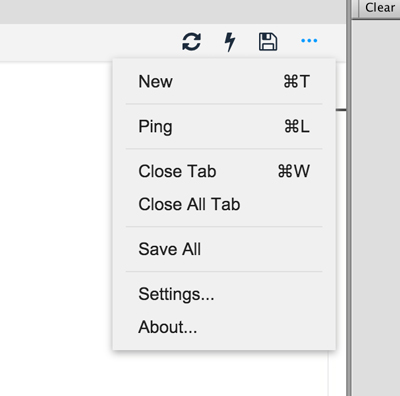
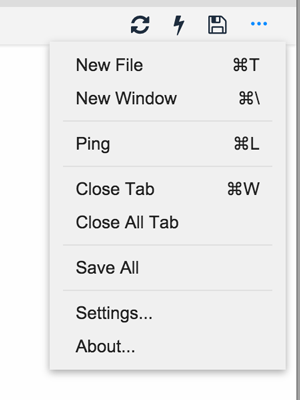
uce version 1.1.2

diff --git a/_pages/uCodeEditor/features.md b/_pages/uCodeEditor/features.md
@@ -14,6 +14,10 @@ Two ways can do this:
 * Via menu __Tools__ -> __uCodeEditor__ -> __uCodeEditor__
 * Open any script files will open uCodeEditor if it's not opened
 
+#### Multiple Windows
+
+Use `New Window` command or click the `New Window` menu item in more drop down menu in MainUI.
+
 ### Open File In uCodeEditor
 
 In addition to double click a script file in Project window, below action will open file in uCodeEditor:
@@ -49,7 +53,8 @@ As below image show, the buttons from left to right are:
 - __Thunder__: Open Command Palette. Shortcut is `F1`
 - __Save__: Save current opened document. Shortcut is `⌘K` on macOS and `Ctrl+K` on Windows
 - __More__: Click will open drop down menu, and for the menu items:
-  - __New__: Create new document. Shortcut is `⌘T` on macOS and `Ctrl+T` on Windows
+  - __New File__: Create new document. Shortcut is `⌘T` on macOS and `Ctrl+T` on Windows
+  - __New Window__: Create new window.
   - __Ping__: Ping current opened document in Unity Project window. Shortcut is `⌘L` on macOS and `Ctrl+L` on Windows
   - __Close Tab__: Close current opened document. Shortcut is `⌘W` on macOS and `Ctrl+W` on Windows
   - __Close All Tab__: Close all tabs in tablist

diff --git a/_pages/uCodeEditor/changelog.md b/_pages/uCodeEditor/changelog.md
@@ -6,6 +6,26 @@ sidebar:
 permalink: "/uce/changelog/"
 toc: true
 ---
+### 1.1.2
+
+NEW:
+- Add multiple windows supports. We can create new window using `New Window` command or click the `New Window` menu item in more drop down menu.
+- Add new light theme named `Github`.
+- Add `Open MSDN Documentation for Selection` and `Open Unity Documentation for Selection` commands to search selected text on MSN documentation and Unity script documentation.
+- Add syntax highlighting for SQL and Typescript language.
+- Add `Save File To..` command which can save a copy of current opened file to the location outside project.
+
+Improvements:
+- Update more dropdown menu style with groups.
+- Add loading image when uCodeEditor window is launching.
+- Add search commands and remove keybinding for a command features in shortcut customization window.
+
+Bug Fix:
+- Fix AutoSave are broken in some scenarios.
+- Fix `Close` icon is missing in Find References window.
+- Fix issue that folding state cannot restore when tab switched.
+- Fix Go To Definition will not save view state of preview tab.
+
 ### 1.1.1
 
 NEW:
